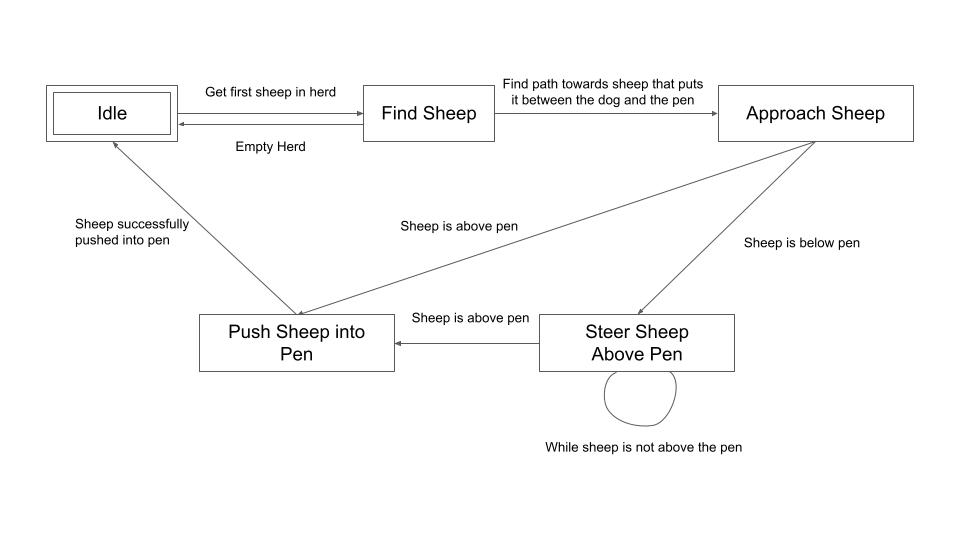
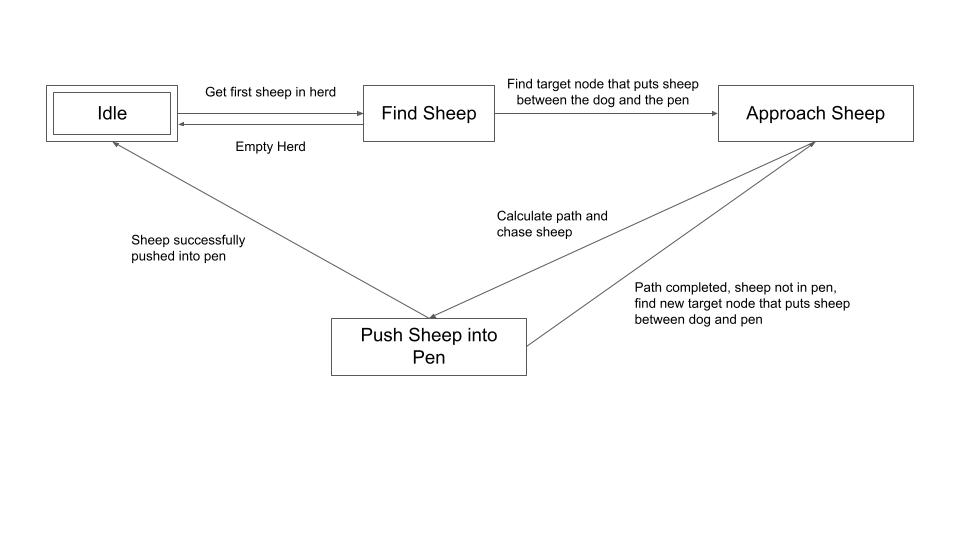
Sheep Comp: State Machine Implemented
- Added a DOG_HERDING_DIST constant to Constants.py to calculate how far the dog should be from the sheep while herding.
 - Adjusted State Machine diagram and files to only use PushSheepIntoPen, which simply tells the dog to follow a path using a target from ApproachSheep.
 - Added helper functions in dog to get target node and set/check if the dog has finished its path.
 - Added a line in main that sets the dog's target to None so the state machine can loop over to the next sheep if one exists.
 - Removed AJ's code and replaced it with my own. Everything seems to be working as expected.

diff --git a/Sheep Competition/StateMachine.py b/Sheep Competition/StateMachine.py
@@ -85,13 +85,14 @@ class ApproachSheepState(State):
 		""" Update this state using the current gameState """
 		super().update(gameState)
 		dog = gameState.getDog()
+		dog.setFinishedPath(False)
 		sheep = dog.getTargetSheep()
 		pen = gameState.getPenBounds()	# [0] = entrance, [1] = inside
 		entrance = pen[0]	# rect(top left x, top y, width, height)
 		entranceLeftX = entrance[0]	# Left
 		entranceY = entrance[1]		# Top
 		entranceRightX = entranceLeftX + entrance[2]	# left + width = right
-		entranceMiddle = Vector(entranceLeftX + (entrance[2] * 0.5), entranceY)
+		#entranceMiddle = Vector(entranceLeftX + (entrance[2] * 0.5), entranceY)
 
 		# Find a point that puts sheep between dog and pen
 		if not dog.isFollowingPath:
@@ -102,48 +103,71 @@ class ApproachSheepState(State):
 				if sheep.center.x < entranceLeftX:
 					print ("Sheep above and to the left of entrance")
 					# Path dog towards a point that would push the sheep into pen
-					dogTarget = Vector(sheep.center.x - 20, sheep.center.y - 20)
-					dog.calculatePathToNewTarget(dogTarget)
+					dogTarget = Vector(sheep.center.x - Constants.DOG_HERDING_DIST,
+					            sheep.center.y - Constants.DOG_HERDING_DIST)
+					dog.setTargetNode(dogTarget)
+					return PushIntoPenState()
 				elif sheep.center.x > entranceRightX:
 					print ("Sheep above and to the right of entrance")
 					# Path dog towards a point that would push the sheep into pen
-					dogTarget = Vector(sheep.center.x + 20, sheep.center.y - 20)
-					dog.calculatePathToNewTarget(dogTarget)
+					dogTarget = Vector(sheep.center.x + Constants.DOG_HERDING_DIST,
+								sheep.center.y - Constants.DOG_HERDING_DIST)
+					dog.setTargetNode(dogTarget)
+					return PushIntoPenState()
 				else:
 					print ("Sheep above and in the middle of entrance")
 					# Path dog towards a point that would push the sheep into pen
-					dogTarget = Vector(sheep.center.x, sheep.center.y - 20)
-					dog.calculatePathToNewTarget(dogTarget)
+					dogTarget = Vector(sheep.center.x, sheep.center.y - Constants.DOG_HERDING_DIST)
+					dog.setTargetNode(dogTarget)
+					return PushIntoPenState()
 			# If sheep is below pen, find path to push it up
 			# Use upper buffer to prevent dog pushing sheep into side of pen
-			# This should transition to SteerSheepAbovePenState
-			# elif sheep.center.y > entranceY: # sheep below pen
-			# 	if dog.center.y < sheep.center.y: # dog above sheep
-			# 		if sheep.center.x > entranceMiddle.x: # sheep is to right of pen entrance
-			# 			targPos = Vector(sheep.center.x - 50, sheep.center.y + 20) # Move dog slightly left of sheep & slightly below
-			# 			dog.calculatePathToNewTarget(targPos)
-			# 		if sheep.center.x < entranceMiddle.x: # sheep is to left of pen entrance
-			# 			targPos = Vector(sheep.center.x + 50, sheep.center.y + 20) # Move dog slightly right of sheep & slightly below
-			# 			dog.calculatePathToNewTarget(targPos)
-			# 	if dog.center.y >= sheep.center.y: # dog is below or at same level as sheep
-			# 		if sheep.center.x > entranceLeftX and sheep.center.x < entranceRightX: # check if sheep is within pen bounds
-			# 			if sheep.center.x > sheep.center: # sheep is to right of pen entrance
-			# 				targPos = Vector(sheep.center.x - 50, sheep.center.y + 20) # Move dog slightly left of sheep & slightly below
-			# 				dog.calculatePathToNewTarget(targPos)
-			# 			if sheep.center.x < entranceMiddle.x: # sheep is to left of pen entrance
-			# 				targPos = Vector(sheep.center.x + 50, sheep.center.y + 20) # Move dog slightly right of sheep & slightly below
-			# 				dog.calculatePathToNewTarget(targPos)
-			# 		elif sheep.center.x < entranceLeftX or sheep.center.x > entranceRightX: #sheep is outside of pen bounds
-			# 			dog.calculatePathToNewTarget(sheep.center)
-
-
-class SteerSheepAbovePenState(State):
-	""" This is a state that loops until the sheep is above the pen """
-	pass
+			# This should transition to PushIntoPenState
+			elif sheep.center.y > (entranceY - Constants.PEN_UPPER_BUFFER):
+				if sheep.center.x < entranceLeftX:
+					print ("Sheep below and to the left of entrance")
+					# Path dog towards a point that would push the sheep above the pen
+					dogTarget = Vector(sheep.center.x + Constants.DOG_HERDING_DIST,
+								sheep.center.y + Constants.DOG_HERDING_DIST)
+					dog.setTargetNode(dogTarget)
+					return PushIntoPenState()
+				elif sheep.center.x > entranceRightX:
+					print ("Sheep below and to the right of entrance")
+					# Path dog towards a point that would push the sheep above the pen
+					dogTarget = Vector(sheep.center.x + Constants.DOG_HERDING_DIST,
+								sheep.center.y + Constants.DOG_HERDING_DIST)
+					dog.setTargetNode(dogTarget)
+					return PushIntoPenState()
+				else:
+					print ("Sheep below and in the middle of entrance")
+					# Path dog towards a point that would push the sheep into pen
+					dogTarget = Vector(sheep.center.x, sheep.center.y + Constants.DOG_HERDING_DIST)
+					dog.setTargetNode(dogTarget)
+					return PushIntoPenState()
 
 class PushIntoPenState(State):
-	""" This is a state where the dog pushes the sheep into the pen """
-	pass
+	""" This is a state where the dog pushes the sheep into the pen. \
+		This state is active while the dog hasn't reached its target, \
+		Then it returns to ApproachSheepState to calculate a new direction """
+
+	def update(self, gameState):
+		super().update(gameState)
+		dog = gameState.getDog()
+		dogTarget = dog.getTargetNode()
+		sheep = dog.getTargetSheep()
+
+		# Chase the sheep
+		if not dog.isFollowingPath:
+			# When the dog reaches the end of its path, check if sheep still exists
+			if dog.finishedPath is True:
+				# If sheep exists, calculate a new direction
+				if sheep is not None:
+					return ApproachSheepState()
+				else:
+					return Idle()
+			else:
+				# If the dog isn't pathing towards the sheep, set its target
+				dog.calculatePathToNewTarget(dogTarget)
 
 class Idle(State):
 	""" This is an idle state where the dog does nothing """

diff --git a/Sheep Competition/Dog.py b/Sheep Competition/Dog.py
@@ -22,15 +22,26 @@ class Dog(Agent):
 		self.searchType = SearchType.A_STAR
 		self.gateNumber = 0
 		self.isFollowingPath = False
+		self.finishedPath = False
 		self.path = []
 		self.stateMachine = StateMachine(Idle())
 		self.targetSheep = None
+		self.targetNode = None
 
 	def setTargetSheep(self, sheep):
 		self.targetSheep = sheep
 
+	def setTargetNode(self, target):
+		self.targetNode = target
+	
+	def setFinishedPath(self, pathFinished):
+		self.finishedPath = pathFinished
+
 	def getTargetSheep(self):
 		return self.targetSheep
+
+	def getTargetNode(self):
+		return self.targetNode
 
 	def getPathLength(self):
 		return len(self.path)
@@ -49,6 +60,7 @@ class Dog(Agent):
 				self.path = self.graph.findPath_AStar(self.center, target)
 
 		if len(self.path) > 0:
+			self.finishedPath = False
 			self.isFollowingPath = True
 			self.target = self.path.pop(0).center
 			self.speed = self.maxSpeed
@@ -77,7 +89,10 @@ class Dog(Agent):
 					self.target = self.path.pop(0).center
 				# Stop following the path if it is empty
 				else:
+					self.finishedPath = True
+					print("Self.finishedPath: ", self.finishedPath)
 					self.isFollowingPath = False
+					print("Self.isFollowingPath: ", self.isFollowingPath)
 					self.speed = 0
 			else:
 				self.setVelocity(vectorToTarget)

diff --git a/Sheep Competition/main.py b/Sheep Competition/main.py
@@ -237,6 +237,7 @@ while not hasQuit:
 			# If the sheep is also in the pen, remove the sheep
 			if sheep.boundingRect.colliderect(penBounds[1]):
 				herd.remove(sheep)
+				dog.setTargetSheep(None)
 			# If they're not longer colliding with the entrance,
 			# assume they have moved away from the entrance
 			elif not sheep.boundingRect.colliderect(penBounds[0]):

diff --git a/Sheep Competition/Constants.py b/Sheep Competition/Constants.py
@@ -21,6 +21,7 @@ DOG_HEIGHT = 32
 DOG_WIDTH = 16
 DOG_SPEED = 100 * GAME_SPEED
 DOG_ANGULAR_SPEED = 1
+DOG_HERDING_DIST = 20
 
 # Sheep Constants
 SHEEP_COUNT = 5
